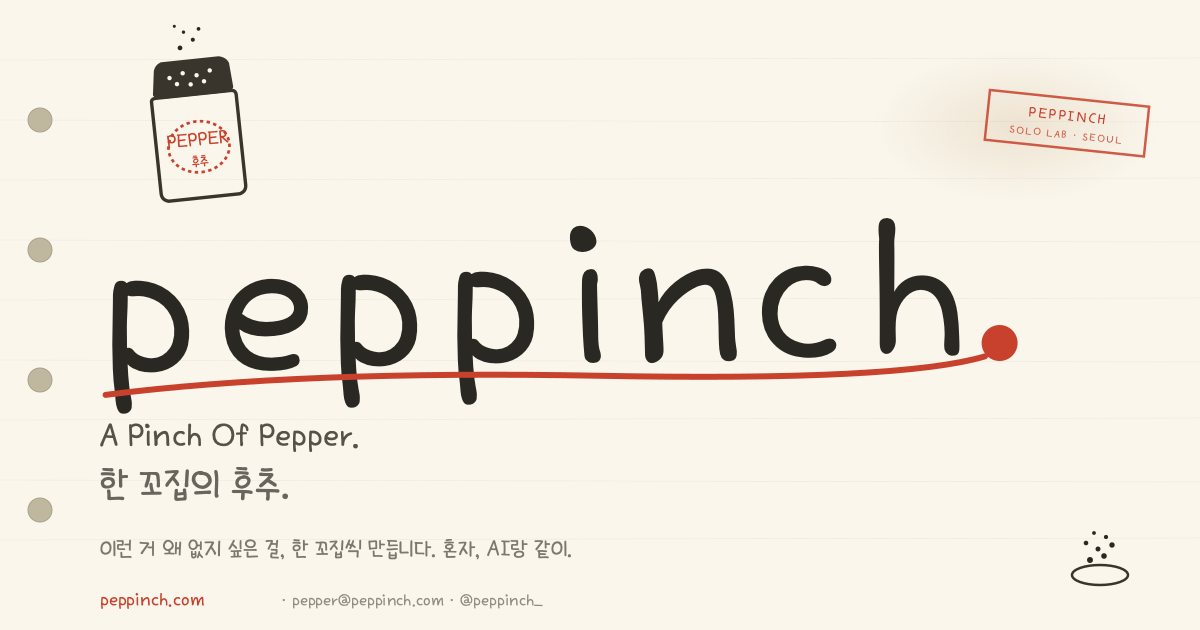
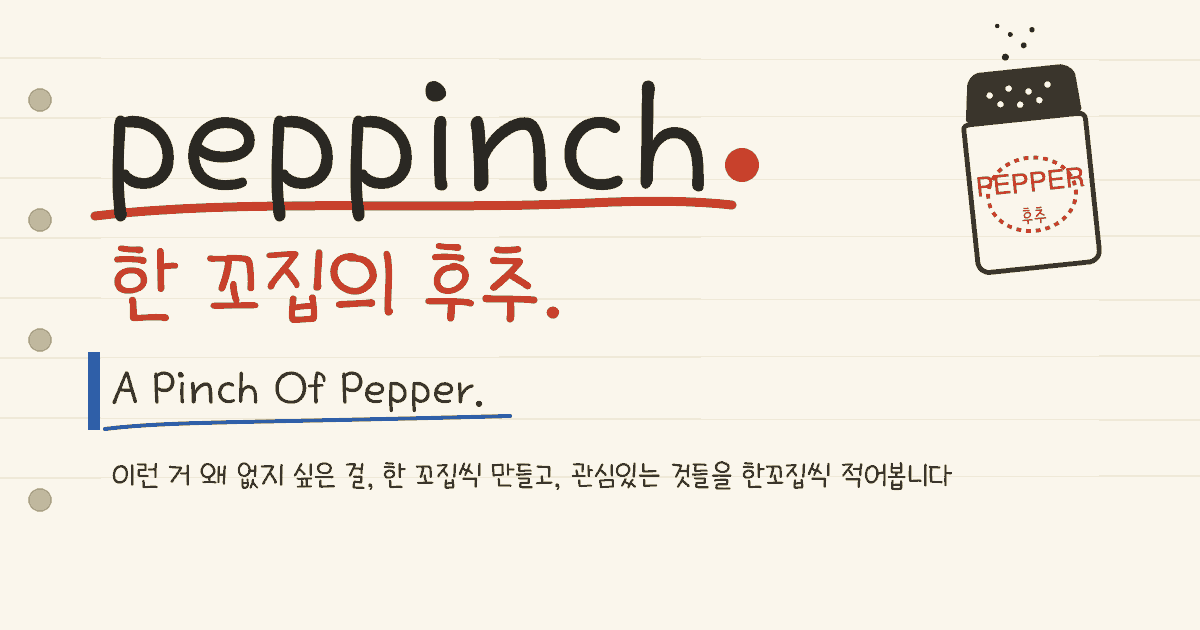
feat(brand): 통일 OG 재디자인 + 홈 블로그 유도
- OG: 거대 peppinch 워드마크 + 빨강 한꼬집의후추 훅 + 메인 후추통 + 소개문구,
  브랜드 팔레트만(청록 제거)·하단 X제목바 안전영역·파란 악센트
- 3종 핑퐁(클로드·코덱스·제미나이) 합의·타이포 주도
- scripts/render_og.py: og-image.svg→png 재렌더 스크립트(cairosvg+Pillow 한글)
- 홈 blog 내비칩 블루 강조 + '글 써요' 화살표 유도

diff --git a/index.html b/index.html
@@ -335,6 +335,28 @@
   }
   .nav-chip[data-active] { color: var(--red); }
   .nav-chip svg { position: absolute; inset: 0; pointer-events: none; }
+  .nav-chip.blog-nav-chip {
+    color: var(--blue);
+  }
+  .nav-chip .blog-pointer {
+    position: absolute;
+    right: -28px;
+    top: -19px;
+    display: inline-flex;
+    align-items: center;
+    gap: 2px;
+    font-size: 13px;
+    line-height: 1;
+    color: var(--blue);
+    transform: rotate(-7deg);
+    white-space: nowrap;
+  }
+  .nav-chip .blog-pointer svg {
+    position: static;
+    inset: auto;
+    width: 24px;
+    height: 14px;
+  }
 
   /* SECTION LABEL */
   h2.section-label {
@@ -783,9 +805,10 @@
       business
       <svg viewBox="0 0 100 40" preserveAspectRatio="none"><path d="M5,8 Q20,4 50,5 T95,8 Q98,20 95,33 Q60,36 30,34 T5,32 Q4,20 5,8 Z" fill="none" stroke="#3a352c" stroke-width="1.5" stroke-dasharray="3 2"/></svg>
     </a>
-    <a class="nav-chip" href="/blog/">
+    <a class="nav-chip blog-nav-chip" href="/blog/">
       blog
-      <svg viewBox="0 0 100 40" preserveAspectRatio="none"><path d="M5,8 Q20,4 50,6 T95,7 Q97,21 96,32 Q60,37 30,34 T5,33 Q3,20 5,8 Z" fill="none" stroke="#3a352c" stroke-width="1.5" stroke-dasharray="3 2"/></svg>
+      <span class="blog-pointer" aria-hidden="true">글 써요<svg viewBox="0 0 28 16"><path d="M2 10 C9 2 18 2 26 8 M22 4 L26 8 L20 10" fill="none" stroke="currentColor" stroke-width="1.5" stroke-linecap="round" stroke-linejoin="round"/></svg></span>
+      <svg viewBox="0 0 100 40" preserveAspectRatio="none"><path d="M5,8 Q20,4 50,6 T95,7 Q97,21 96,32 Q60,37 30,34 T5,33 Q3,20 5,8 Z" fill="none" stroke="#2F5FA8" stroke-width="1.5" stroke-dasharray="3 2"/></svg>
     </a>
     <a class="nav-chip" href="mailto:pepper@peppinch.com" title="pepper@peppinch.com">
       contact

diff --git a/scripts/render_og.py b/scripts/render_og.py
@@ -1,0 +1,65 @@
+#!/usr/bin/env python3
+from io import BytesIO
+from pathlib import Path
+
+import cairosvg
+from PIL import Image, ImageDraw, ImageFont
+
+
+WIDTH = 1200
+HEIGHT = 630
+
+ROOT = Path(__file__).resolve().parents[1]
+SVG_PATH = ROOT / "og-image.svg"
+PNG_PATH = ROOT / "og-image.png"
+FONT_PATH = ROOT / "fonts" / "KyoboHandwriting2019.otf"
+
+COLORS = {
+    "paper": (250, 246, 236),
+    "ruling": (239, 233, 216),
+    "ink": (42, 40, 35),
+    "pencil": (58, 53, 44),
+    "red": (200, 65, 44),
+    "blue": (47, 95, 168),
+    "warm": (192, 184, 158),
+    "muted": (168, 160, 135),
+}
+
+
+def quantize_to_brand_palette(image):
+    palette_image = Image.new("P", (1, 1))
+    palette = []
+    for rgb in COLORS.values():
+        palette.extend(rgb)
+    palette.extend([0, 0, 0] * (256 - len(COLORS)))
+    palette_image.putpalette(palette)
+    return image.quantize(palette=palette_image, dither=Image.Dither.NONE).convert("RGB")
+
+
+def main():
+    png_bytes = cairosvg.svg2png(url=str(SVG_PATH), output_width=WIDTH, output_height=HEIGHT)
+    image = Image.open(BytesIO(png_bytes)).convert("RGB")
+    draw = ImageDraw.Draw(image)
+
+    font_logo = ImageFont.truetype(str(FONT_PATH), 160)
+    font_ko = ImageFont.truetype(str(FONT_PATH), 90)
+    font_tagline = ImageFont.truetype(str(FONT_PATH), 46)
+    font_intro = ImageFont.truetype(str(FONT_PATH), 31)
+
+    draw.text((102, 42), "peppinch", font=font_logo, fill=COLORS["ink"])
+    draw.text((112, 228), "한 꼬집의 후추.", font=font_ko, fill=COLORS["red"])
+    draw.text((112, 360), "A Pinch Of Pepper.", font=font_tagline, fill=COLORS["pencil"])
+    draw.text(
+        (112, 456),
+        "이런 거 왜 없지 싶은 걸, 한 꼬집씩 만들고, 관심있는 것들을 한꼬집씩 적어봅니다",
+        font=font_intro,
+        fill=COLORS["pencil"],
+    )
+
+    image = quantize_to_brand_palette(image)
+    image.save(PNG_PATH, optimize=True)
+    print(f"rendered {PNG_PATH.relative_to(ROOT)}")
+
+
+if __name__ == "__main__":
+    main()
